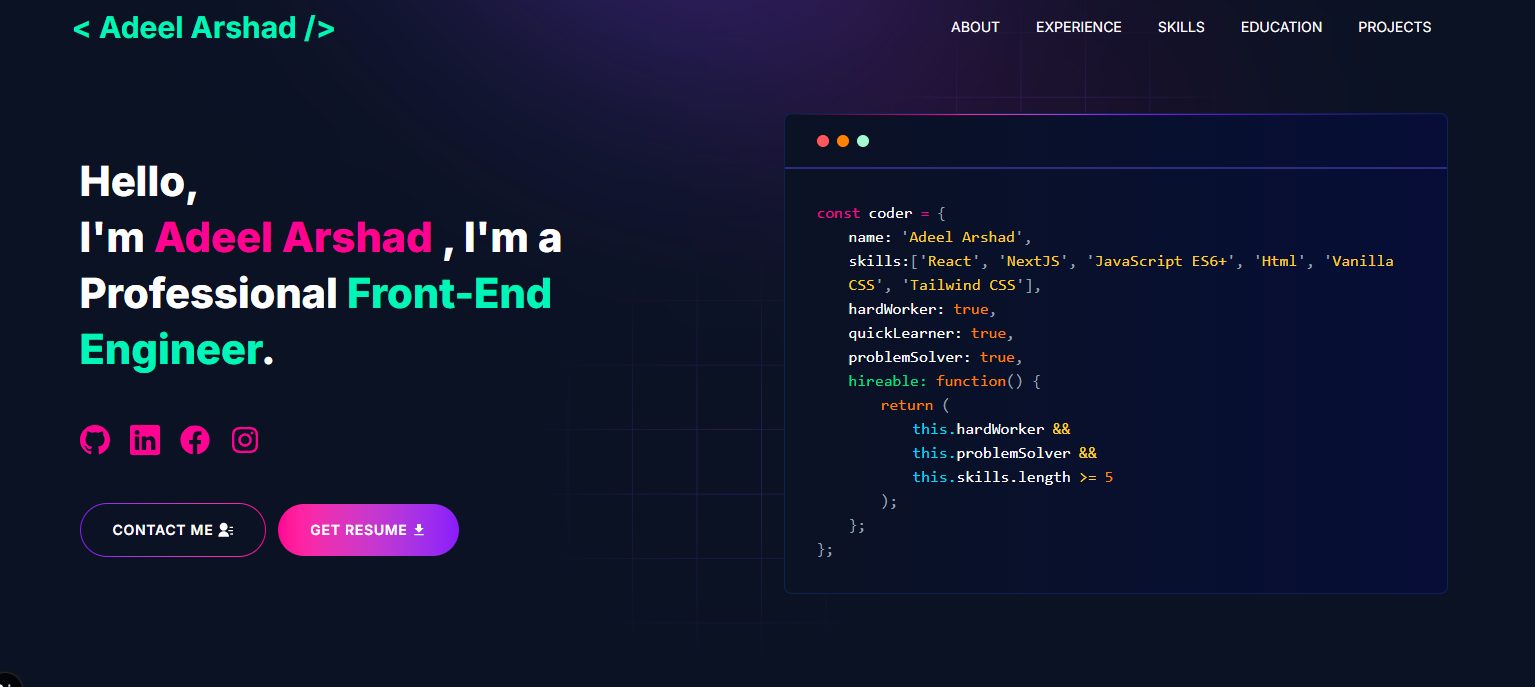
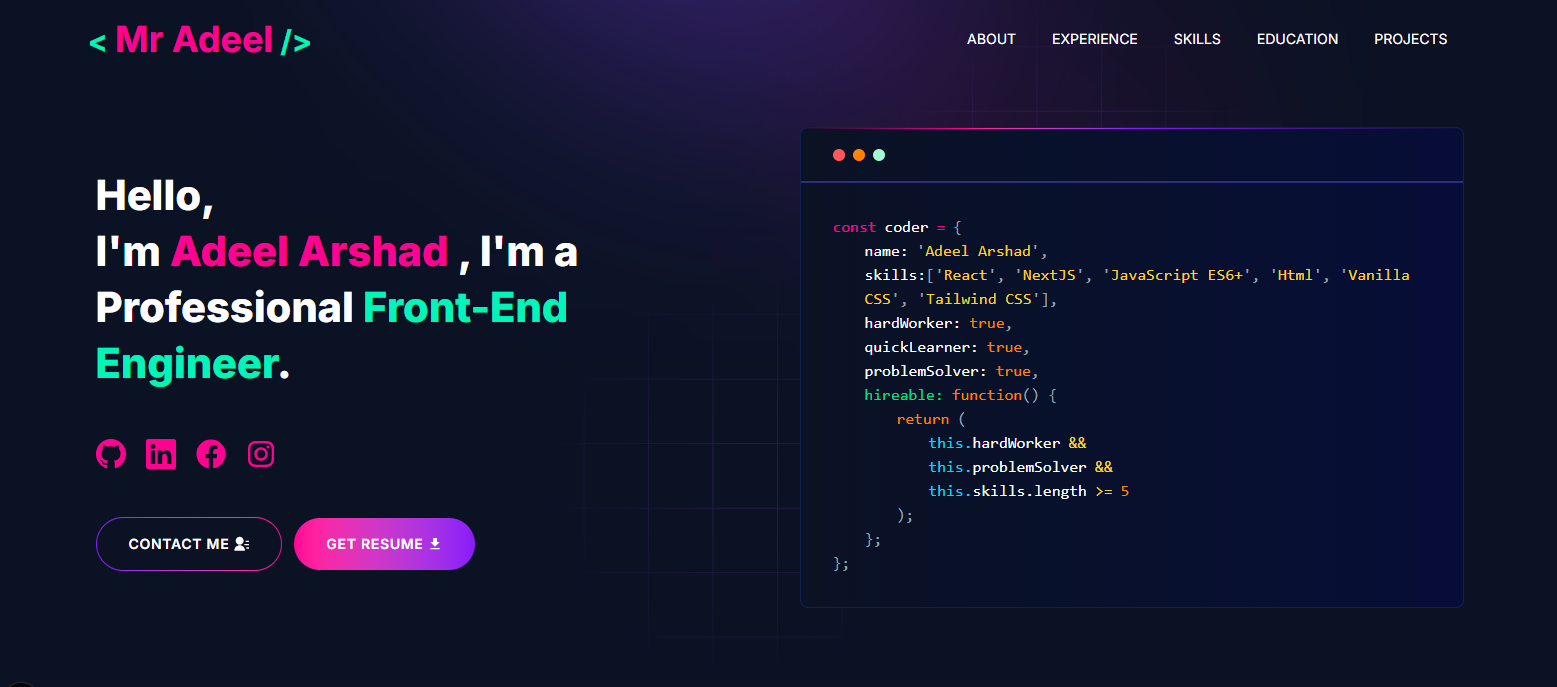
Navbar title updated

diff --git a/app/components/navbar.jsx b/app/components/navbar.jsx
@@ -10,7 +10,7 @@ function Navbar() {
           <Link
             href="/"
             className=" text-[#16f2b3] text-3xl font-bold">
-              &lt; Mr Adeel  /&gt;
+              &lt; <span className="text-pink-500 text-4xl">Mr Adeel</span>  /&gt;
           </Link>
         </div>
 
